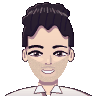
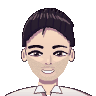
fix(portraits): Lollino without beard, old Giuggiu hair, old Alessandro and dad (#20)

diff --git a/scripts/art/portraits.py b/scripts/art/portraits.py
@@ -46,13 +46,13 @@ FACES = {
                 eye=(10.5, 6.8), mouth="soft", blush=True, acc=["bighoops", "goldchain"],
                 top=("straps", (52, 44, 56), "ditsy")),
     "lollino": dict(skin="medium", hair="darkbrown", eyes="hazelgreen", style="tousle", fw=19.8, chin=74, cw=4.0,
-                    brow=2.5, eye=(10, 5.6), mouth="grin", squint=True, beard="short", acc=["shades-on-head"],
+                    brow=2.5, eye=(10, 5.6), mouth="grin", squint=True, acc=["shades-on-head"],
                     male=True, vol=1.15, fringe=True, top=("tee", (40, 48, 82), None)),
     "fede": dict(skin="medium", hair="darkbrown", eyes="darkbrown", style="longstraight", fw=19.5, chin=71, cw=3.0,
                  brow=1.4, eye=(10, 6.4), mouth="grin", squint=True, blush=True, acc=[],
                  top=("straps", (226, 196, 70), "ditsy-light")),
-    "giuggiu": dict(skin="tan", hair="black", eyes="darkbrown", style="tousle", fw=20.5, chin=75, cw=5.0, brow=2.6,
-                    eye=(9.5, 5.4), mouth="smile", beard="short", acc=[], male=True, vol=0.6, bumps=True, drop=8,
+    "giuggiu": dict(skin="tan", hair="black", eyes="darkbrown", style="quiff", fw=20.5, chin=75, cw=5.0, brow=2.6,
+                    eye=(9.5, 5.4), mouth="smile", beard="short", acc=[], male=True,
                     top=("tee", (244, 244, 240), "logo")),
     "giusy": dict(skin="tan", hair="mahogany", eyes="darkbrown", style="longstraight", fw=19, chin=71, cw=2.6, brow=1.6,
                   eye=(10.5, 6.4), mouth="grin", squint=True, acc=["chain"], lashes=True, part=41,
@@ -64,9 +64,9 @@ FACES = {
                         brow=1.3, eye=(10.5, 6.8), mouth="smile", blush=True, acc=[],
                         top=("straps", (150, 214, 184), None)),
     # extras (comparse), traits from the photos the owner added
-    "alessandro": dict(skin="light", hair="black", eyes="darkbrown", style="tousle", fw=18.8, chin=75, cw=3.5, brow=1.7,
-                       eye=(10, 5.4), mouth="grin", squint=True, beard="stubble", acc=[], male=True, vol=0.75,
-                       drop=11, top=("collar", (244, 242, 236), None)),
+    "alessandro": dict(skin="light", hair="black", eyes="darkbrown", style="swept", fw=19.5, chin=74, cw=3.5, brow=1.9,
+                       eye=(10, 5.4), mouth="grin", squint=True, beard="stubble", acc=[], male=True,
+                       top=("collar", (244, 242, 236), None)),
     "rosanna": dict(skin="light", hair="darkbrown", eyes="darkbrown", style="longstraight", fw=19.5, chin=73, cw=3.5,
                     brow=1.6, eye=(10, 6.0), mouth="neutral", acc=["aviator", "buckethat"],
                     top=("tee", (40, 36, 40), "vest")),
@@ -79,9 +79,9 @@ FACES = {
     "carolina": dict(skin="light", hair="ginger", eyes="brown", style="longwavy", fw=19.5, chin=72, cw=3.5,
                      brow=1.5, eye=(10, 6.2), mouth="smile", lip=(150, 20, 38), squint=True, acc=["nosering"],
                      part=53, browcol=(132, 76, 44), top=("vneck", (34, 32, 36), None)),
-    "papa": dict(skin="tan", hair="inkbrown", eyes="darkbrown", style="quiff", fw=20, chin=74, cw=4.0, brow=2.7,
-                 eye=(9.5, 4.8), mouth="smile", squint=True, beard="full", acc=["lines", "browlines"], male=True,
-                 bcol=(112, 104, 104), top=("blazer", (70, 76, 92), (36, 44, 80))),
+    "papa": dict(skin="tan", hair="salt", eyes="darkbrown", style="quiff", fw=20, chin=74, cw=4.0, brow=2.0,
+                 eye=(9.5, 4.8), mouth="smile", squint=True, beard="full", acc=["lines"], male=True,
+                 top=("blazer", (70, 76, 92), (36, 44, 80))),
     "mamma": dict(skin="light", hair="silverbrown", eyes="brown", style="longwavy", fw=19.5, chin=72, cw=3.5, brow=1.5,
                   eye=(10, 5.8), mouth="grin", squint=True, acc=["rectglasses", "headband", "lines", "browlines"],
                   browcol=(96, 72, 62), top=("blazer", (104, 62, 40), (236, 228, 212))),

diff --git a/docs/art-characters.md b/docs/art-characters.md
@@ -44,7 +44,7 @@ The gate is `python -I scripts/art/pxl/lint_sheets.py`: it runs `pxl lint` (the 
 
 ## The people in prose
 
-Ric (hero) is tall, tan, with a dark brown bun, a dark beard, sunglasses, a maroon floral shirt, khaki shorts and dark sneakers. Lara has light skin, chestnut wavy shoulder length hair and a white button dress. Liscio has tan skin, short brown curly hair, stubble, a grey tee with a chain and khaki shorts. Ros is short with an auburn bob and blunt bangs, a dark floral tank top and navy shorts. Lollino has tan skin, big black curls, a beard, sunglasses pushed up on the hair and a navy tee. Fede has light skin, long straight brown hair with a centre part, a yellow floral top and a cream skirt (easter-egg NPC only). Giuggiu has tan skin, short black hair, a short beard, a white tee with a dark logo and navy shorts. Giusy has olive skin, very long wavy black hair and a dark floral dress. Prof. Pinolo (professor) is older with grey side-parted hair, round dark glasses, a light blue striped shirt with an open collar and dark trousers. Gatto di Paz (speaker id `gatto`) is a calico cat: white with orange patches and brown tabby patches, green eyes, a striped tail, drawn as a 3x4 sheet with a two-step walk. La sconosciuta is a generic girl with a chestnut ponytail and a mint dress.
+Ric (hero) is tall, tan, with a dark brown bun, a dark beard, sunglasses, a maroon floral shirt, khaki shorts and dark sneakers. Lara has light skin, chestnut wavy shoulder length hair and a white button dress. Liscio has tan skin, short brown curly hair, stubble, a grey tee with a chain and khaki shorts. Ros is short with an auburn bob and blunt bangs, a dark floral tank top and navy shorts. Lollino has tan skin, big black curls, no beard, sunglasses pushed up on the hair and a navy tee. Fede has light skin, long straight brown hair with a centre part, a yellow floral top and a cream skirt (easter-egg NPC only). Giuggiu has tan skin, short black hair, a short beard, a white tee with a dark logo and navy shorts. Giusy has olive skin, very long wavy black hair and a dark floral dress. Prof. Pinolo (professor) is older with grey side-parted hair, round dark glasses, a light blue striped shirt with an open collar and dark trousers. Gatto di Paz (speaker id `gatto`) is a calico cat: white with orange patches and brown tabby patches, green eyes, a striped tail, drawn as a 3x4 sheet with a two-step walk. La sconosciuta is a generic girl with a chestnut ponytail and a mint dress.
 
 ## Traits that came from the photos
 
@@ -54,13 +54,13 @@ Only these choices came from looking at the group photo, the professor photo and
 - Lara: long wavy light chestnut hair, white button-up sundress.
 - Liscio: dark curly hair, light beard growth, grey tee with a pendant chain, khaki shorts.
 - Ros: reddish hair with bangs at chin length, dark floral strap top.
-- Lollino: curly dark hair, beard, sunglasses worn on top of the head, dark navy tee, khaki shorts.
+- Lollino: curly dark hair, no beard, sunglasses worn on top of the head, dark navy tee, khaki shorts.
 - Fede: long straight dark brown hair, yellow floral top.
 - Giuggiu: short dark hair, short beard, white tee with a logo print, dark shorts.
 - Giusy: long dark wavy hair, tan skin, dark floral dress.
 - Prof. Pinolo: short grey-brown hair, round dark glasses, light blue striped shirt with an open collar and no tie.
 
-The painted portraits add, from the same photos (round 3 likeness pass, features chosen by eye, nothing traced): Ric's long narrow face, thick brows, full dark beard with moustache, and a messy bun with loose tufts and wisps at the temples. Lara's tan olive skin, long dark brown wavy hair with sun-bleached lighter ends, very thick dark brows, a closed half smile, a small mole on the right cheek and long beaded earrings (blue, white, orange, black) hanging over the hair. Liscio's swept-back dark hair, thick straight brows, heavy-lidded eyes, a dense short beard with moustache, a small silver hoop in the right ear, the chain with a pendant and a closed smile. Ros's chin-length copper-red bob with bangs, a softer smirk instead of a flat mouth, big gold hoops with a small one above, and two gold chains. Lollino's lighter skin, dark brown tousled wavy hair swept up with a lock falling on the forehead (in place of the old tight curls), hazel-green eyes, thick arched brows, short beard, a wide smile and the sunglasses pushed up on the hair. Fede's centre-parted straight hair and wide smile (no photo, unchanged). Giuggiu's tan skin, short dark curly hair that is higher at the temples, thick brows, short full beard and a closed smile, with the logo tee. Giusy's lighter tan skin, long straight dark mahogany hair with a side part, a wide smile with teeth and a thin silver pendant chain (no earrings). Prof. Pinolo's brown-grey side-swept fringe, a broad face, thick black round glasses, faint smile lines and the open striped collar. The portraits use their own colours, so a skin or hair tone there can be closer to the photo than the shared sprite palette allows.
+The painted portraits add, from the same photos (round 3 likeness pass, features chosen by eye, nothing traced): Ric's long narrow face, thick brows, full dark beard with moustache, and a messy bun with loose tufts and wisps at the temples. Lara's tan olive skin, long dark brown wavy hair with sun-bleached lighter ends, very thick dark brows, a closed half smile, a small mole on the right cheek and long beaded earrings (blue, white, orange, black) hanging over the hair. Liscio's swept-back dark hair, thick straight brows, heavy-lidded eyes, a dense short beard with moustache, a small silver hoop in the right ear, the chain with a pendant and a closed smile. Ros's chin-length copper-red bob with bangs, a softer smirk instead of a flat mouth, big gold hoops with a small one above, and two gold chains. Lollino's lighter skin, dark brown tousled wavy hair swept up with a lock falling on the forehead (in place of the old tight curls), hazel-green eyes, thick arched brows, no beard, a wide smile and the sunglasses pushed up on the hair. Fede's centre-parted straight hair and wide smile (no photo, unchanged). Giuggiu's tan skin, the earlier short black quiff (the owner's choice), thick brows, short full beard and a closed smile, with the logo tee. Giusy's lighter tan skin, long straight dark mahogany hair with a side part, a wide smile with teeth and a thin silver pendant chain (no earrings). Prof. Pinolo's brown-grey side-swept fringe, a broad face, thick black round glasses, faint smile lines and the open striped collar. The portraits use their own colours, so a skin or hair tone there can be closer to the photo than the shared sprite palette allows.
 - Gatto di Paz: calico coat (white, orange and brown tabby patches), as in the cat photo.
 - La sconosciuta: no photo, invented.
 
@@ -68,6 +68,6 @@ Skin tones were matched only to the nearest of the three shared tones. A photo-b
 
 Extras (comparse) added from the photos in `reference_photos/personaggi/comparse/` (viewed only): Alessandro, the waiter (white shirt, swept black hair, stubble, wide smile), barista of the Cortile Cafe; Rosanna (long black hair, tie-dye bucket hat, aviators, black tee under a brown fleece vest), at the Giardini; Ric's parents (dad: salt-and-pepper beard, dark hair, blazer over a navy shirt; mum: long ash-grey wavy hair, red headband, rectangular glasses, brown jacket), at Casa Circe; Roberto (top hat, red bow tie, light-brown hair, short beard), Armando (messy dark hair, goatee, flannel shirt over a black hoodie) and Carolina (copper hair, red lips, nose ring, black top) have a sprite and a portrait but no scene yet.
 
-Portrait traits of the extras after the round 3 likeness pass (chosen by looking only): Alessandro has a longer narrow face, short dark hair brushed up and back with a little lift at the front, light stubble, thin straight brows, a wide smile and the open white collar. Rosanna has very long dark brown hair, the tie-dye bucket hat with its red chin cord, teardrop aviator sunglasses with a thin gold frame (a new accessory, `aviator`), a neutral mouth and the brown fleece vest. Roberto has a long narrow face, hazel eyes, a short scruffy beard, a warm one-sided smile, a few dark curls sticking out under the top hat at ear level and the red bow tie. Armando has a pale narrow face, a big messy dark brown quiff swept up and back, heavy straight brows, a thin moustache with a goatee and a neutral mouth. Carolina has long loosely wavy ginger hair with a side part, thin copper brows, dark red lips, a smile and the nose ring. Dad has short dark near-black textured hair, strong brows, forehead and smile lines (a new accessory, `browlines`) and a trimmed salt-and-pepper beard (the beard colour is its own, `bcol`). Mum has long silver-brown wavy hair, a thin red headband, rectangular dark glasses, forehead and smile lines and a warm grin.
+Portrait traits of the extras after the round 3 likeness pass (chosen by looking only): Alessandro keeps his earlier portrait (swept black hair, stubble, wide smile, open white collar), the owner's choice. Rosanna has very long dark brown hair, the tie-dye bucket hat with its red chin cord, teardrop aviator sunglasses with a thin gold frame (a new accessory, `aviator`), a neutral mouth and the brown fleece vest. Roberto has a long narrow face, hazel eyes, a short scruffy beard, a warm one-sided smile, a few dark curls sticking out under the top hat at ear level and the red bow tie. Armando has a pale narrow face, a big messy dark brown quiff swept up and back, heavy straight brows, a thin moustache with a goatee and a neutral mouth. Carolina has long loosely wavy ginger hair with a side part, thin copper brows, dark red lips, a smile and the nose ring. Dad keeps his earlier portrait (salt-and-pepper quiff and full beard, smile lines), the owner's choice. Mum has long silver-brown wavy hair, a thin red headband, rectangular dark glasses, forehead and smile lines and a warm grin.
 
 New `FACES` keys of this pass, all optional: `style="tousle"` with `vol`, `drop`, `bumps` and `fringe`; `part` (x of the parting for `longstraight` and `longwavy`); `ombre` (colour of lighter hair ends); `bcol` (beard colour); `browcol` (brow colour); `gframe` and `gthick` (round glasses frame colour and thickness); `messy` (loose tufts on the bun); accessories `aviator`, `mole`, `browlines`, `hoop`, `bighoops`, `beadearrings`, `goldchain` and `sidecurls`.
